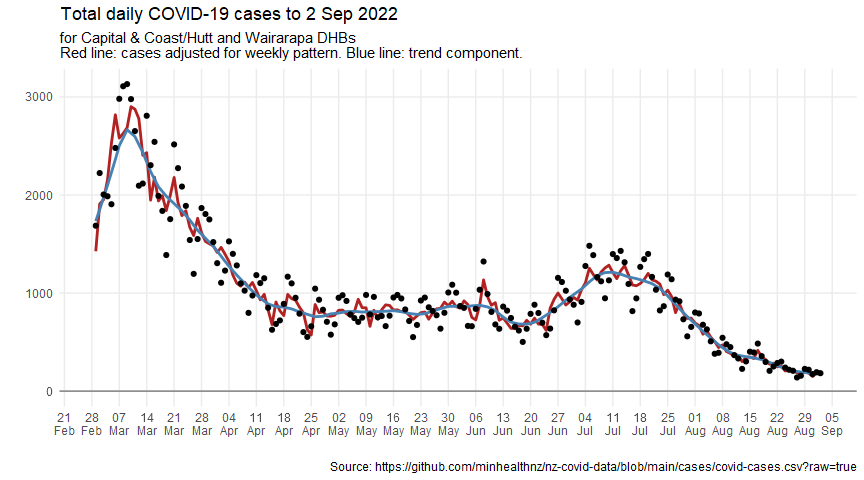
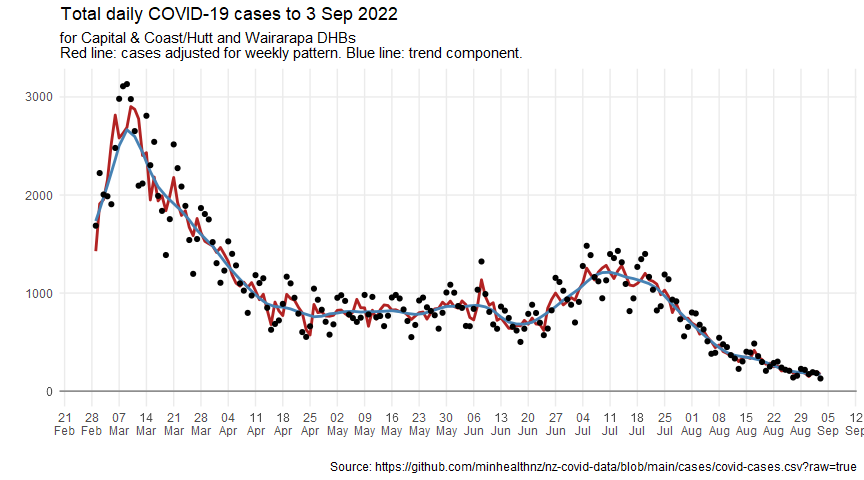
Update for 20220904

diff --git a/covid-post-peak-analysis.md b/covid-post-peak-analysis.md
@@ -34,7 +34,7 @@ cases_df <- read_csv(case_data_url) %>%
   clean_names()
 ```
 
-    ## Rows: 1746640 Columns: 7
+    ## Rows: 1747739 Columns: 7
     ## ── Column specification ────────────────────────────────────────────────────────
     ## Delimiter: ","
     ## chr  (5): Case Status, Sex, Age group, DHB, Overseas travel
@@ -51,7 +51,7 @@ cases_by_dhb_df <- cases_df %>%
   count(report_date, dhb, case_status)
 ```
 
-## Wellington figures up to 2 Sep 2022
+## Wellington figures up to 3 Sep 2022
 
 Including Hutt and Wairarapa as well as CCDHB.
 
@@ -171,11 +171,11 @@ maxima <- dhb_cases_after_transform_stl_df %>%
   summarise(cases = max(cases), adjusted = max(season_adjust), trend = max(trend))
 ```
 
-Looking at raw case numbers, the peak on 9 Mar 2022 was about 22.5 times
+Looking at raw case numbers, the peak on 9 Mar 2022 was about 24.3 times
 the lowest recent value.
 
 But when adjusting for the weekly pattern, it was 19.4 times the lowest
-recent adjusted value, and the trend was about 15.4 times the lowest
+recent adjusted value, and the trend was about 15.6 times the lowest
 recent trend line.
 
 While the trend might be over-smoothed, the peak coincinded with the
